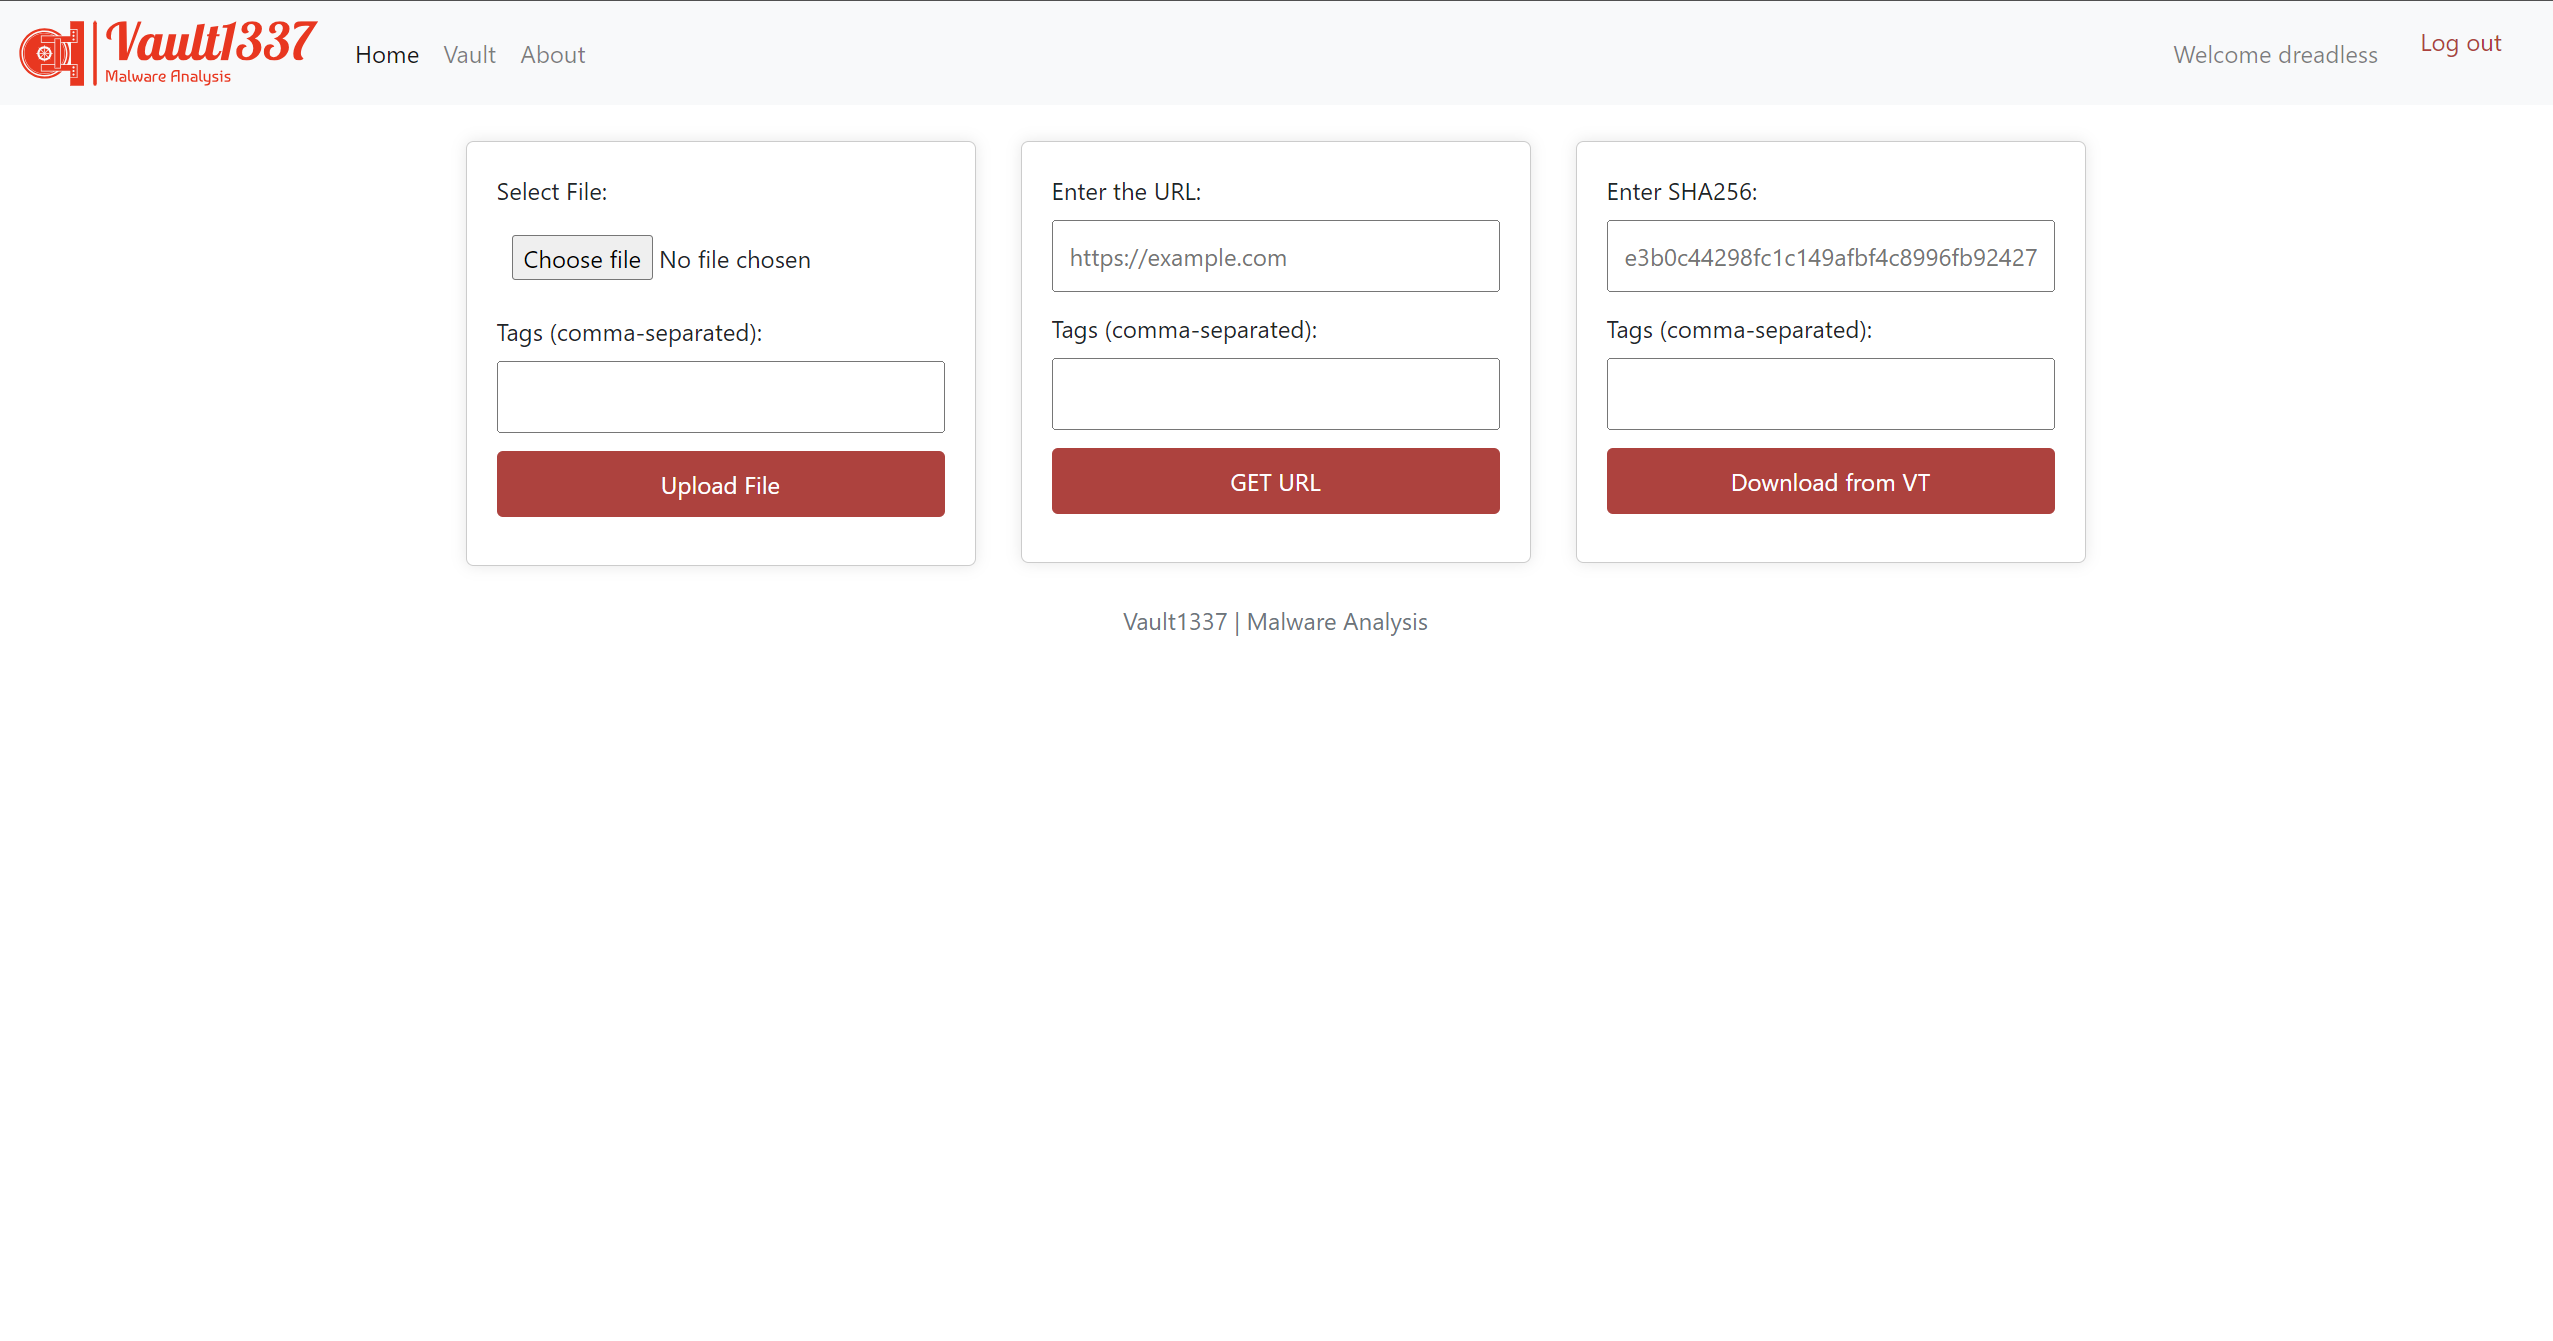
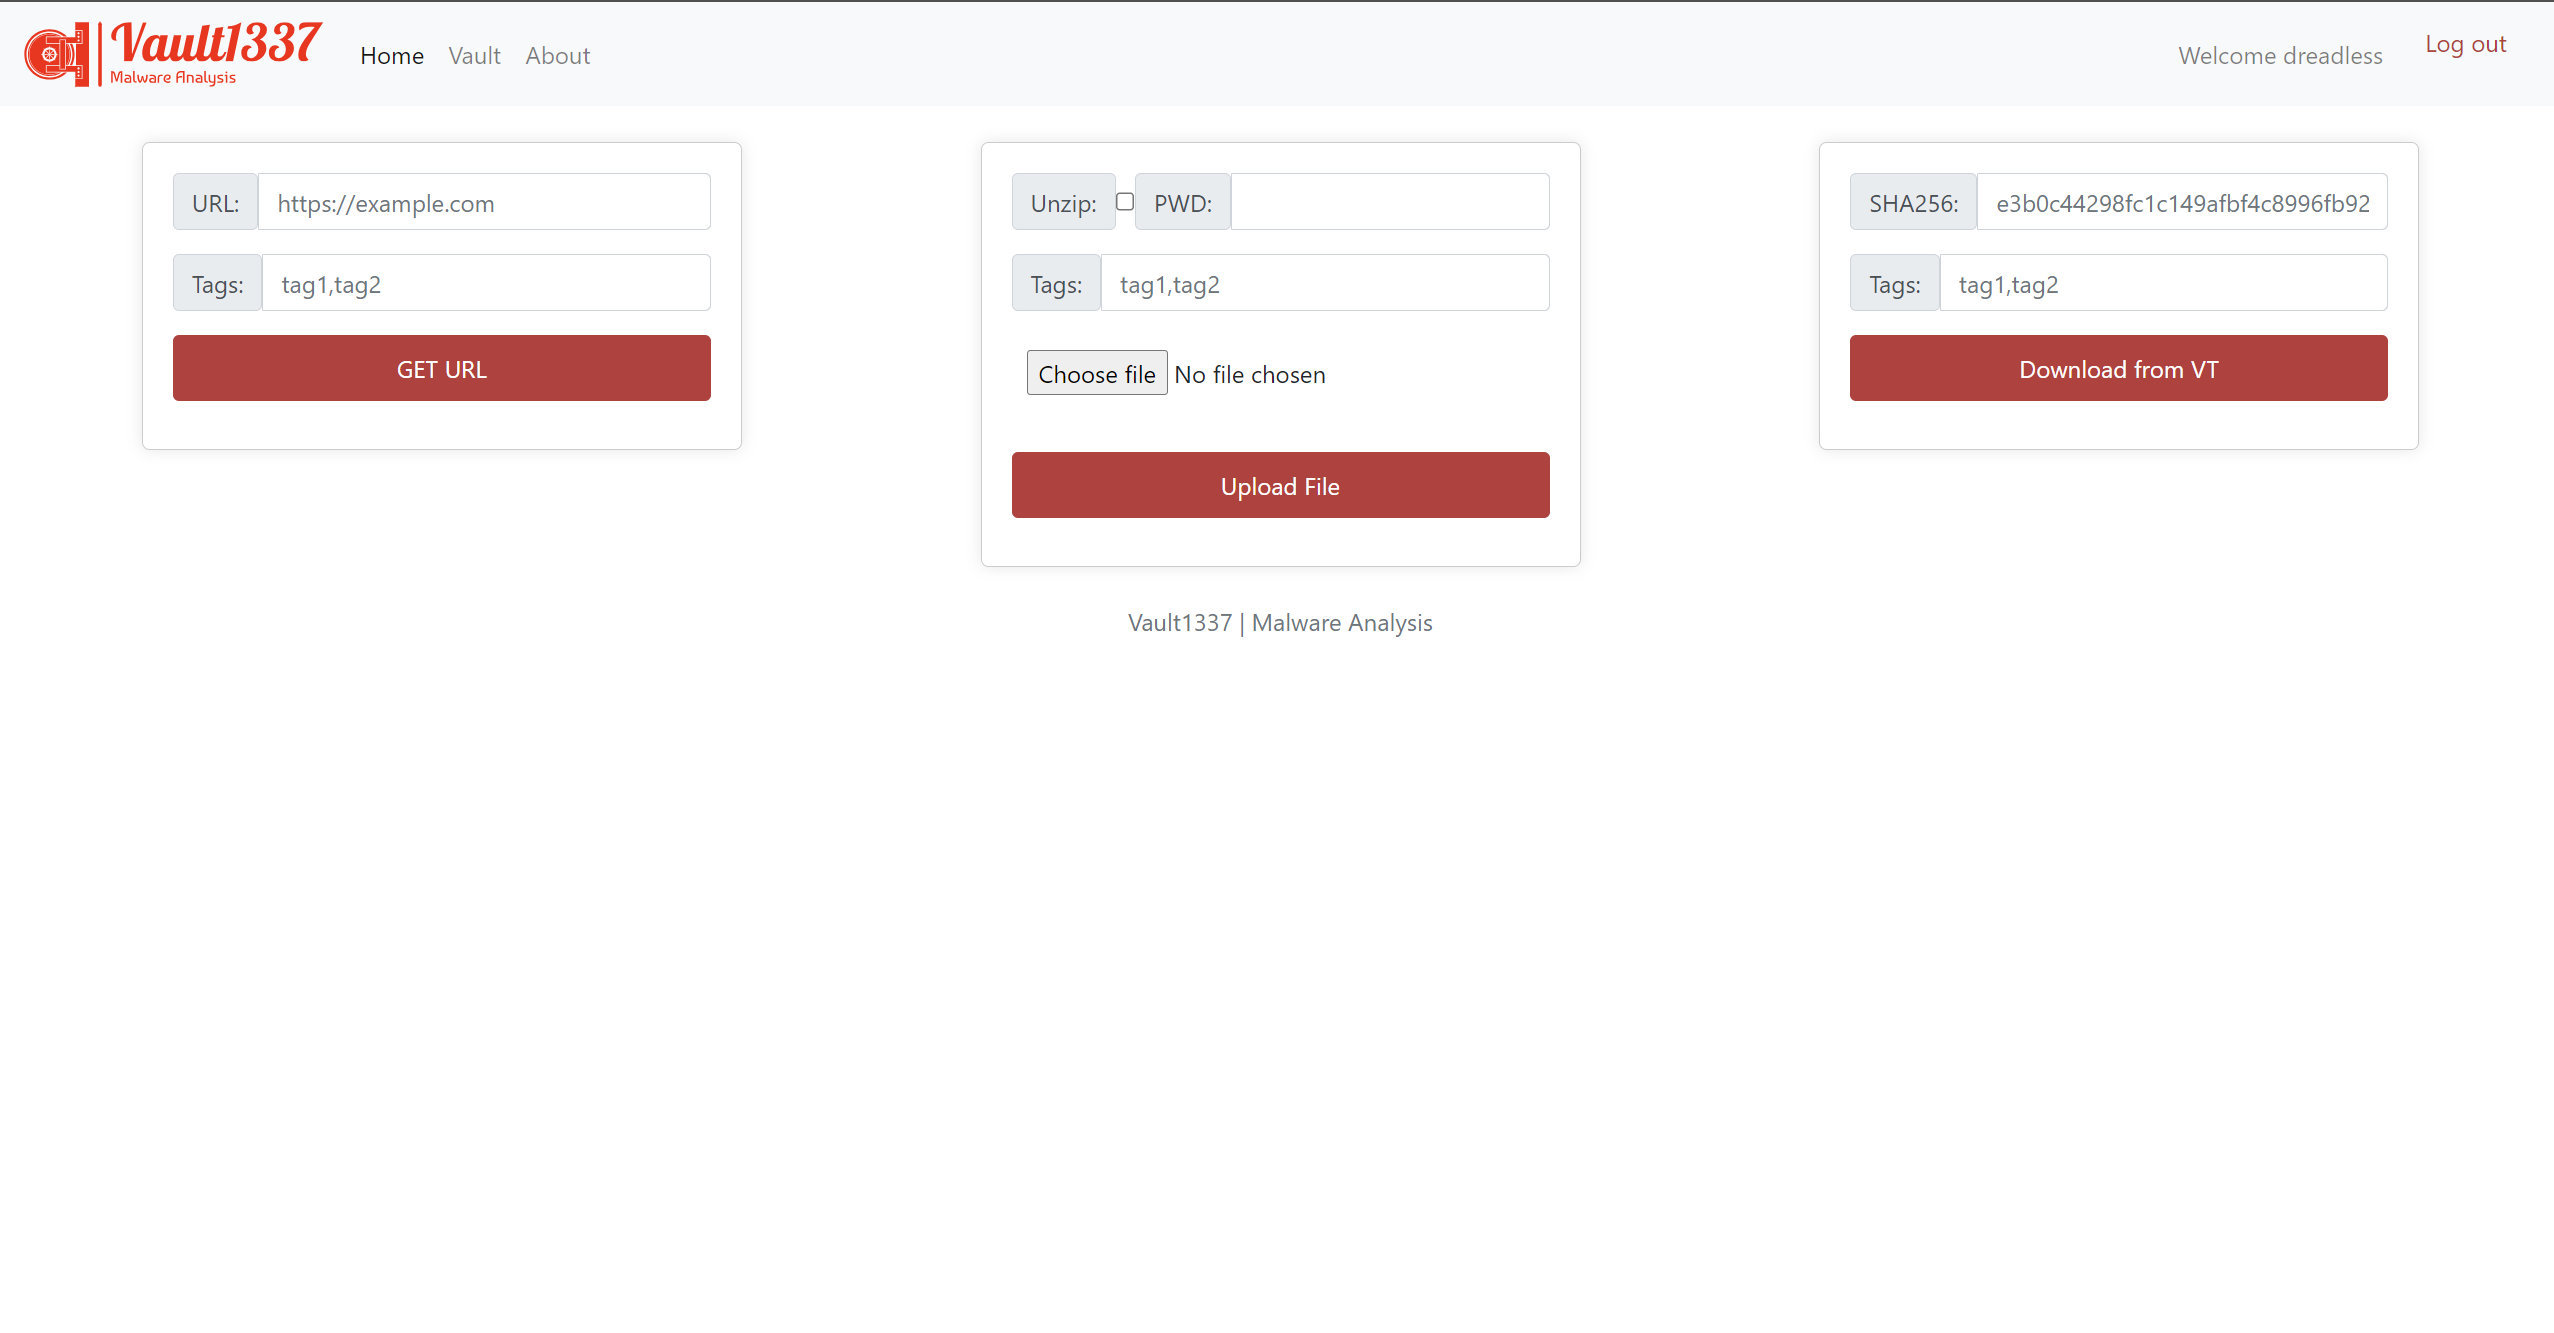
index updates

diff --git a/vault/templates/vault/index.html b/vault/templates/vault/index.html
@@ -5,50 +5,56 @@
 {% block content %}
 {% if user.is_authenticated %}
 <br>
-<div class="container">
+<div class="container-fluid">
     <div class="row">
+        <div class="col">
+            <form class="index" method="post" action="{% url 'get_webpage' %}">
+                {% csrf_token %}
+                <div class="input-group mb-3">
+                    <span class="input-group-text" for="url">URL:</span>
+                    <input class="form-control" type="text" id="url" name="url" placeholder="https://example.com" required>
+                </div>
+                <div class="input-group mb-3">
+                    <span class="input-group-text" for="tags">Tags:</span>
+                    <input class="form-control" type="text" id="tags" name="tags" placeholder="tag1,tag2">
+                </div>
+                <button class="index" type="submit">GET URL</button>
+            </form>
+        </div>
         <div class="col">
             <form class="index" method="post" enctype="multipart/form-data" action="{% url 'upload_file' %}">
                 {% csrf_token %}
-            
-                <!-- Input for file selection -->
-                <div class="input-group input-group-sm mb-3">
-                    <label class="index" for="file">Select File:</label>
-                    <input class="form-conrtol" type="file" id="file" name="file" accept=".zip, .txt, .pdf, .doc, .docx, .exe" required>
-                </div>
+        
                 <!-- Checkbox for unzip option -->
-                <div class="input-group input-group mb-3">
-                    <span class="input-group-text" for="unzip">Tick to Unzip:</span>
-                    <input class="form-control" type="checkbox" id="unzip" name="unzip">
-                </div>
-                <!-- Input for password (optional) -->
-                <div class="input-group input-group mb-3">
-                    <span class="input-group-text" for="password">ZIP Password</span>
+                <div class="input-group mb-3">
+                    <span class="input-group-text" for="unzip">Unzip:</span>
+                    <input class="input-group-text" type="checkbox" id="unzip" name="unzip">
+                    <span class="input-group-text" for="password">PWD:</span>
                     <input class="form-control" type="text" id="password" name="password">
+                </div>
+                <div class="input-group mb-3">
+                    <span class="input-group-text" for="tags">Tags:</span>
+                    <input class="form-control" type="text" id="tags" name="tags" placeholder="tag1,tag2">
+                </div>
+                <!-- Input for file selection -->
+                <div class="input-group input-group mb-3">
+                    <input class="index" type="file" id="file" name="file" accept=".zip, .txt, .pdf, .doc, .docx, .exe" required>
                 </div>
                 <!-- Submit button -->
                 <button class="index" type="submit">Upload File</button>
             </form>
         </div>
         <div class="col">
-            <form class="index" method="post" action="{% url 'get_webpage' %}">
-                {% csrf_token %}
-                <label class="index" for="urlInput">Enter the URL:</label>
-                <input class="index" type="text" id="url" name="url" placeholder="https://example.com" required>
-                <br>
-                <label class="index" for="tags">Tags (comma-separated):</label>
-                <input class="index" type="text" id="tags" name="tags">
-                <button class="index" type="submit">GET URL</button>
-            </form>
-        </div>
-        <div class="col">
             <form class="index" method="post" action="{% url 'vt_download' %}">
                 {% csrf_token %}
-                <label class="index" for="urlInput">Enter SHA256:</label>
[1 lines of base64/hex data omitted]
-                <br>
-                <label class="index" for="tags">Tags (comma-separated):</label>
-                <input class="index" type="text" id="tags" name="tags">
+                <div class="input-group mb-3">
+                    <span class="input-group-text" for="sha256">SHA256:</span>
[1 lines of base64/hex data omitted]
+                </div>
+                <div class="input-group mb-3">
+                    <span class="input-group-text" for="tags">Tags:</span>
+                    <input class="form-control" type="text" id="tags" name="tags" placeholder="tag1,tag2">
+                </div>
                 <button class="index" type="submit">Download from VT</button>
             </form>
         </div>
